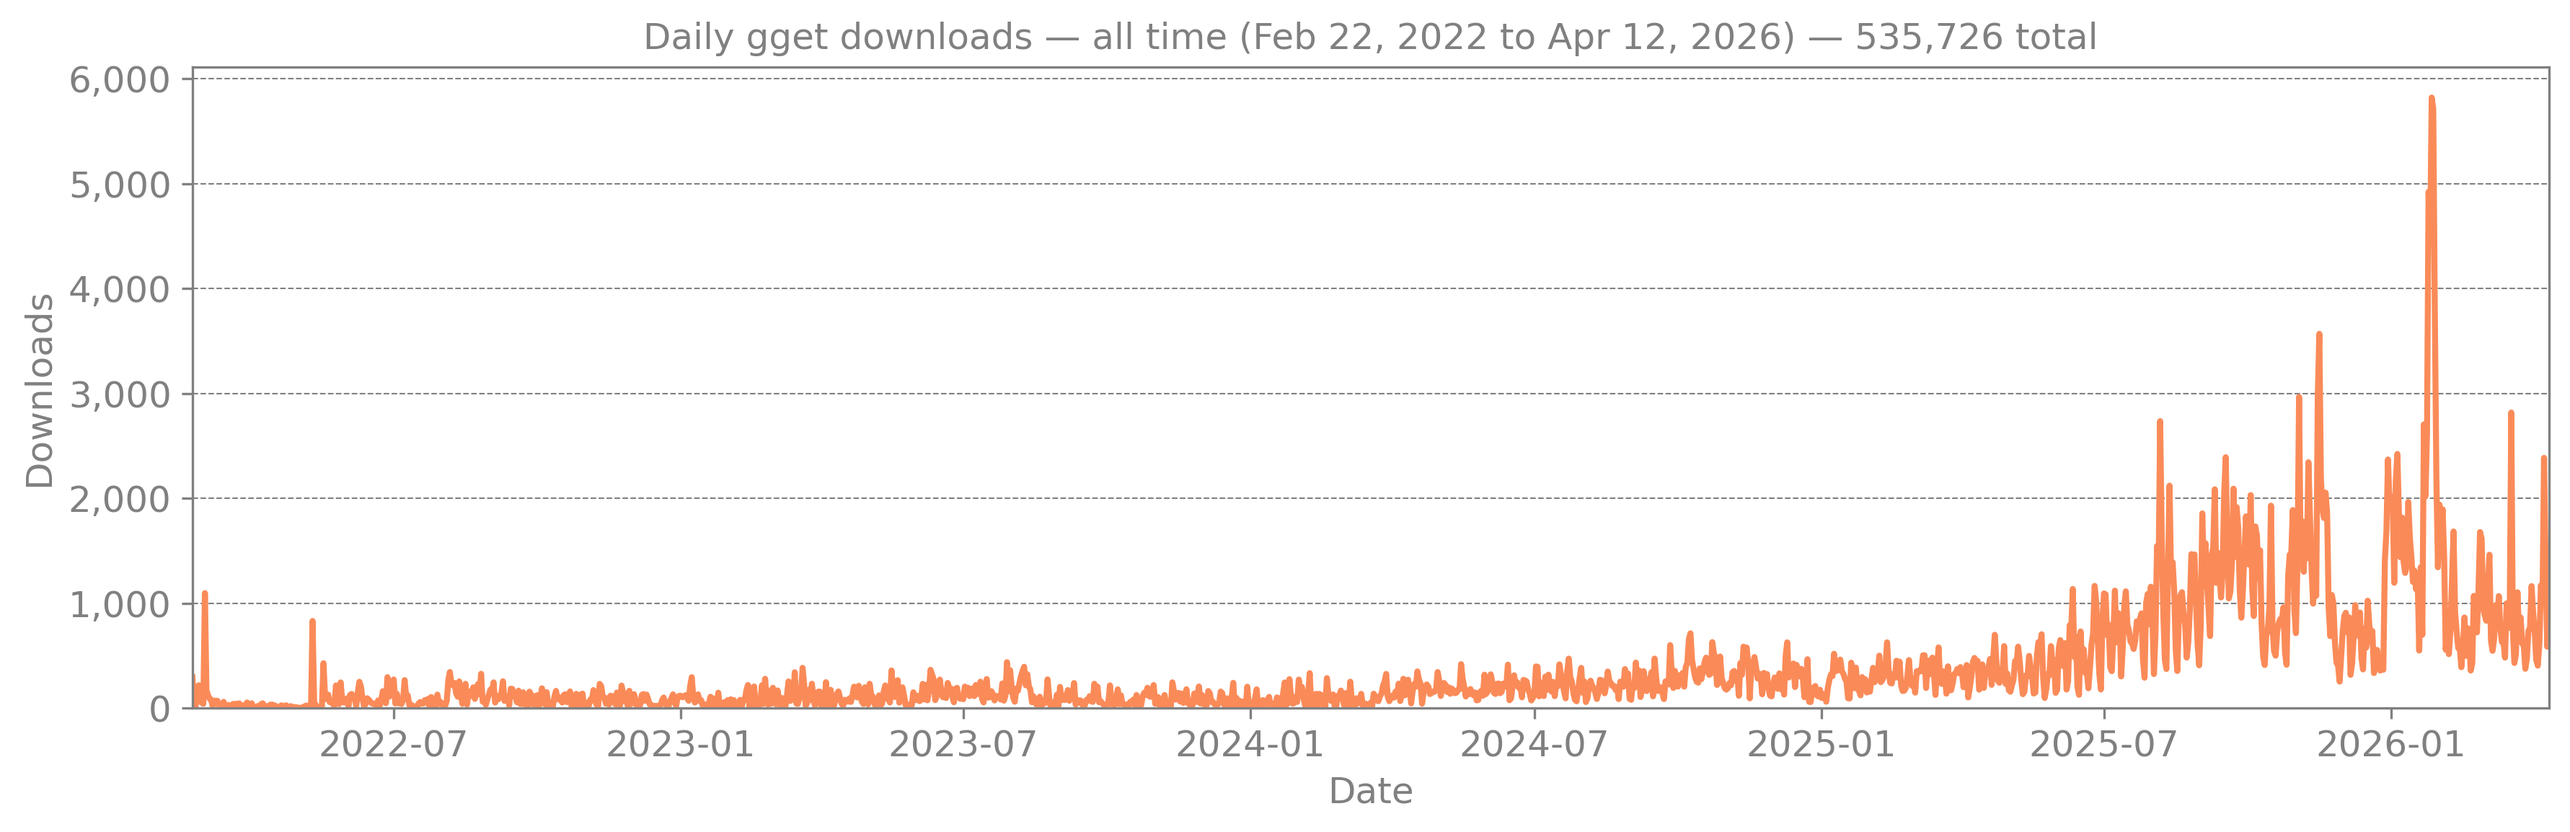
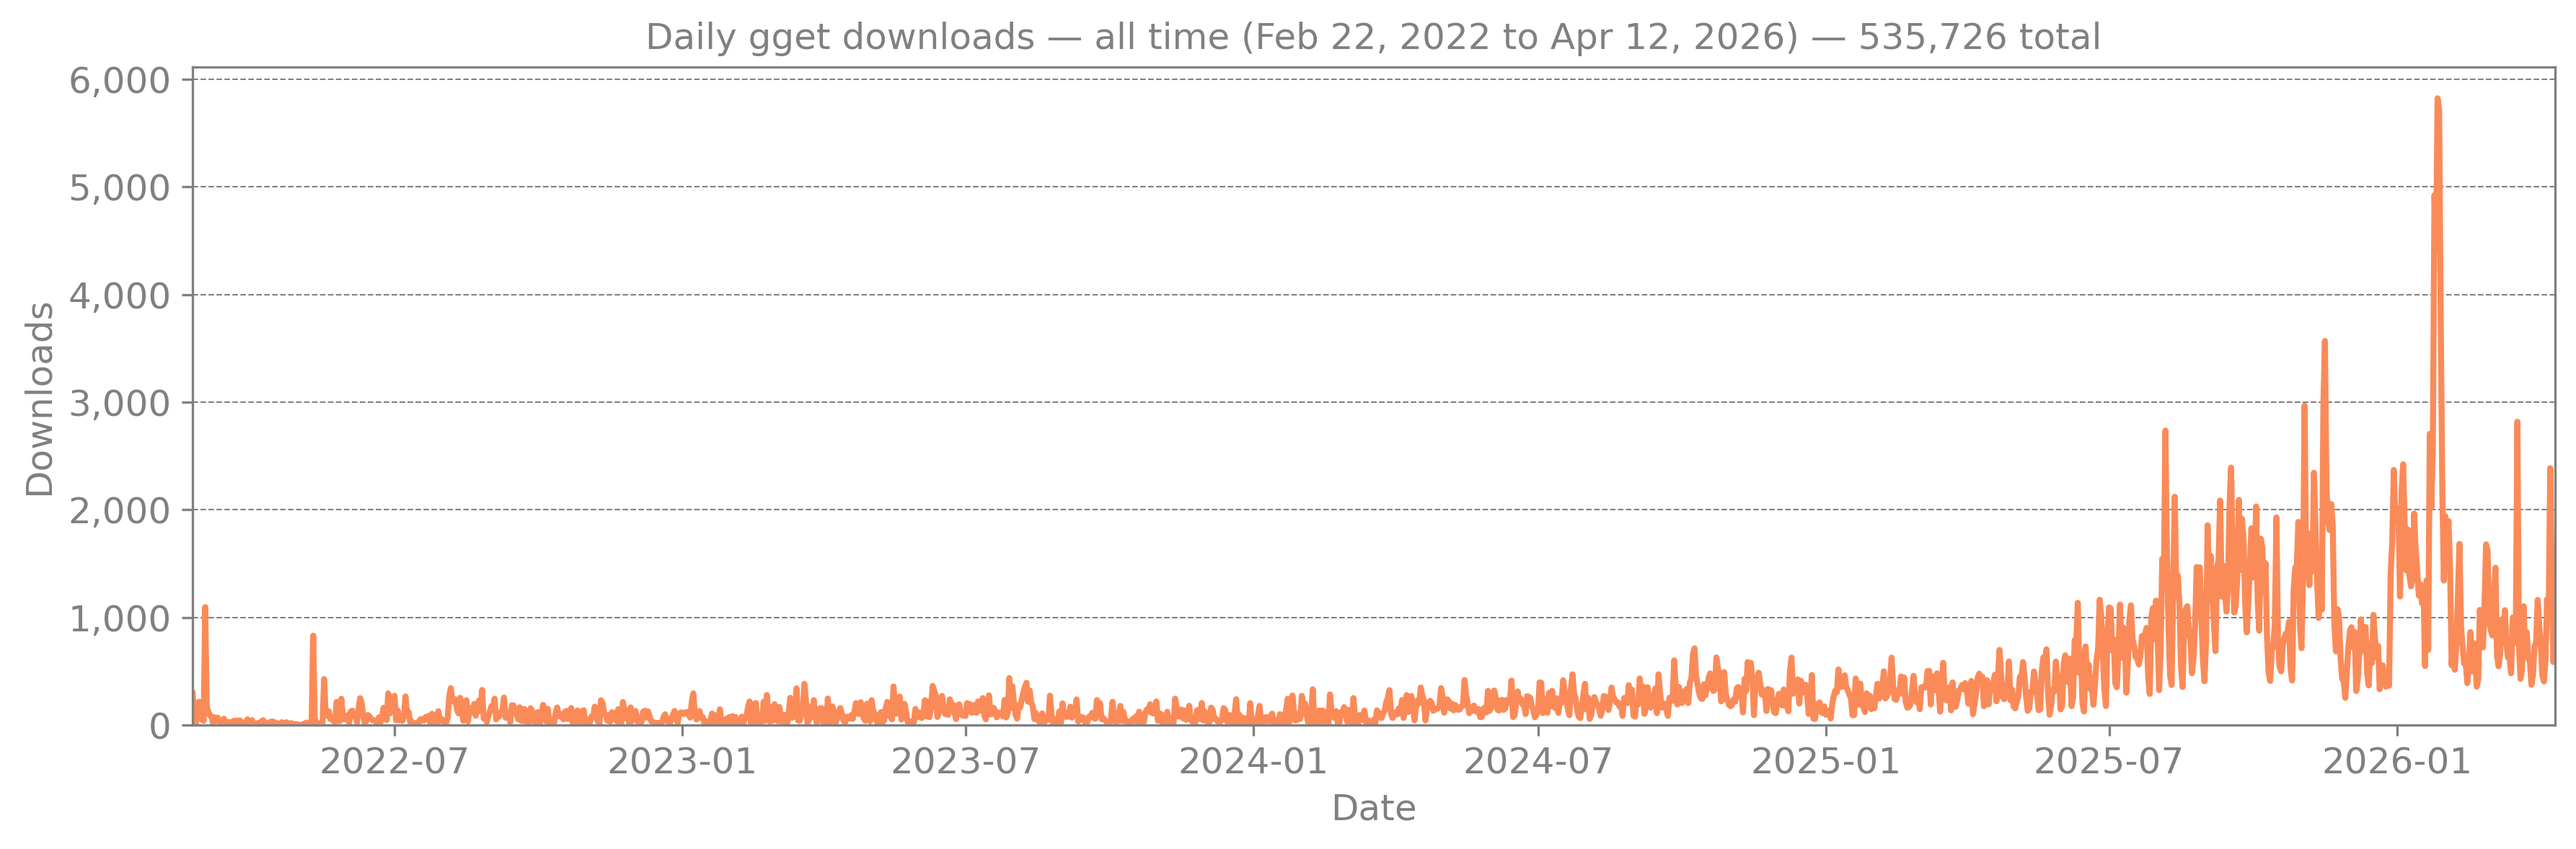
Add cumulative all-time downloads plot

diff --git a/scripts/generate_plots.py b/scripts/generate_plots.py
@@ -212,6 +212,49 @@ def plot_alltime(df: pd.DataFrame, package: str, out_path: Path, fontsize: int =
     plt.close(fig)
 
 
+def plot_cumulative(df: pd.DataFrame, package: str, out_path: Path, fontsize: int = 12) -> None:
+    """Plot cumulative all-time downloads."""
+    text_color = "grey"
+    plot_color = "#fa8b59"
+
+    if df.empty:
+        print("  Warning: No data to plot for cumulative")
+        return
+
+    df = df.sort_values("date")
+    series = df.set_index("date")["downloads"].cumsum()
+
+    total = series.iloc[-1]
+    start_date = series.index.min().strftime("%b %d, %Y")
+    end_date = series.index.max().strftime("%b %d, %Y")
+
+    fig, ax = plt.subplots(figsize=(12, 4))
+    ax.fill_between(series.index, series.values, color=plot_color, alpha=0.3)
+    ax.plot(series.index, series.values, color=plot_color, lw=2)
+
+    ax.set_title(
+        f"Cumulative {package} downloads — {start_date} to {end_date} — {total:,} total",
+        fontsize=fontsize,
+        color=text_color,
+    )
+    ax.set_xlabel("Date", fontsize=fontsize, color=text_color)
+    ax.set_ylabel("Cumulative downloads", fontsize=fontsize, color=text_color)
+    ax.set_ylim(bottom=0)
+    ax.margins(x=0)
+    ax.tick_params(axis="both", labelsize=fontsize, colors=text_color)
+    ax.yaxis.set_major_formatter(FuncFormatter(lambda x, _: f"{int(x):,}"))
+
+    for spine in ax.spines.values():
+        spine.set_color(text_color)
+
+    ax.grid(True, axis="y", color=text_color, linestyle="--", linewidth=0.5)
+    ax.set_axisbelow(True)
+
+    fig.tight_layout()
+    fig.savefig(out_path, dpi=300, transparent=True, bbox_inches="tight")
+    plt.close(fig)
+
+
 def plot_country(
     df: pd.DataFrame,
     package: str,
@@ -334,10 +377,16 @@ def main() -> None:
             out_path = PLOTS_DIR / f"downloads_{package}_alltime.png"
             plot_alltime(df, package, out_path)
             print(f"  Saved {out_path}")
+
+            # Cumulative plot
+            print("\nProcessing: cumulative")
+            out_path = PLOTS_DIR / f"downloads_{package}_cumulative.png"
+            plot_cumulative(df, package, out_path)
+            print(f"  Saved {out_path}")
         else:
-            print("  Warning: No data for all-time plot")
+            print("  Warning: No data for all-time/cumulative plots")
     else:
-        print(f"  Warning: {daily_csv} not found, skipping all-time plot")
+        print(f"  Warning: {daily_csv} not found, skipping all-time/cumulative plots")
 
     print("\nDone!")
 

diff --git a/README.md b/README.md
@@ -13,6 +13,10 @@ Historical data is available from February 22, 2022 (gget's first release).
 
 ![gget PyPI downloads all-time](plots/downloads_gget_alltime.png)
 
+## Cumulative all-time downloads
+
+![gget cumulative PyPI downloads](plots/downloads_gget_cumulative.png)
+
 ## Last 365 days
 
 ![gget PyPI downloads over the last year](plots/downloads_gget_daily.png)
@@ -54,6 +58,7 @@ breakdowns:
 
 **Plots:**
 - `plots/downloads_gget_alltime.png` - All-time daily downloads
+- `plots/downloads_gget_cumulative.png` - Cumulative all-time downloads
 - `plots/downloads_gget_daily.png` - Daily downloads (last N days)
 - `plots/downloads_gget_python_major.png` - By Python major version
 - `plots/downloads_gget_python_minor.png` - By Python minor version
